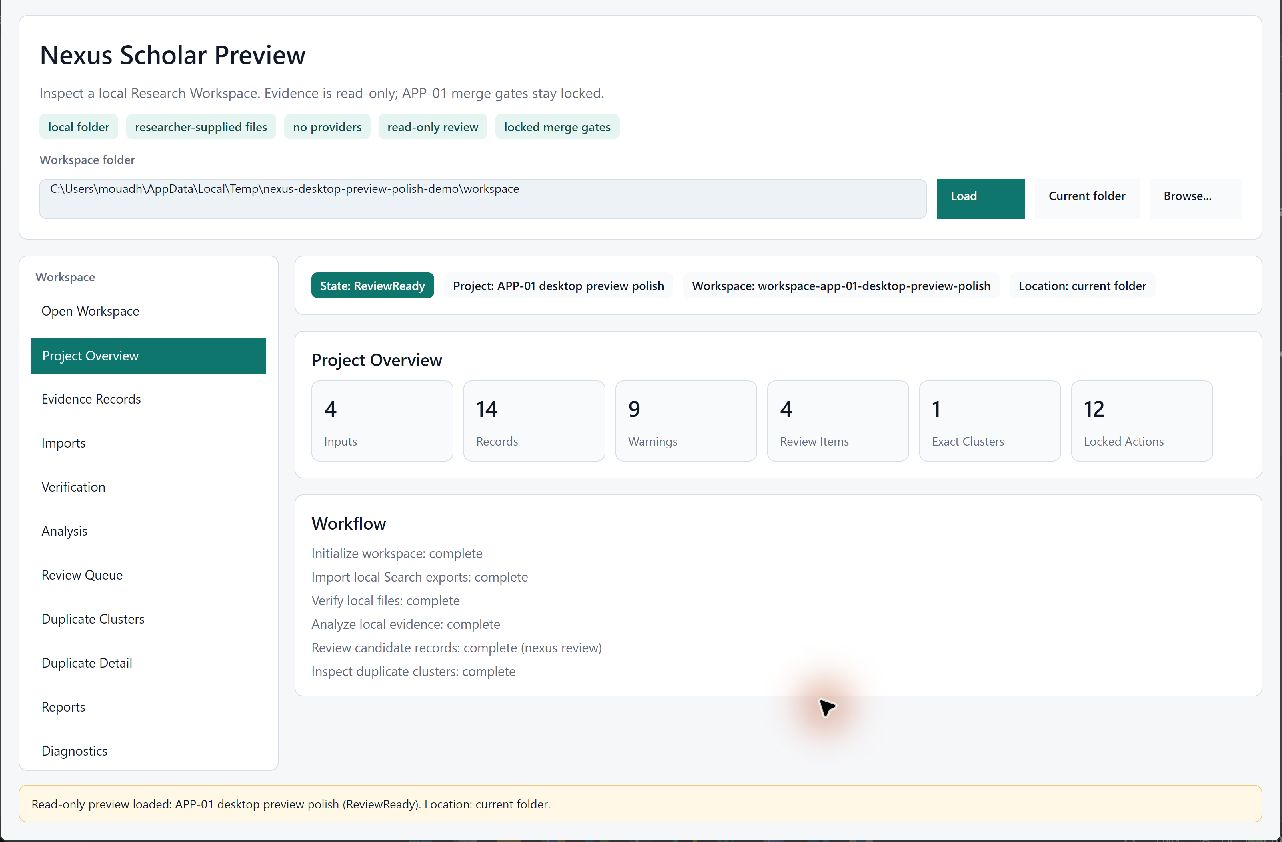
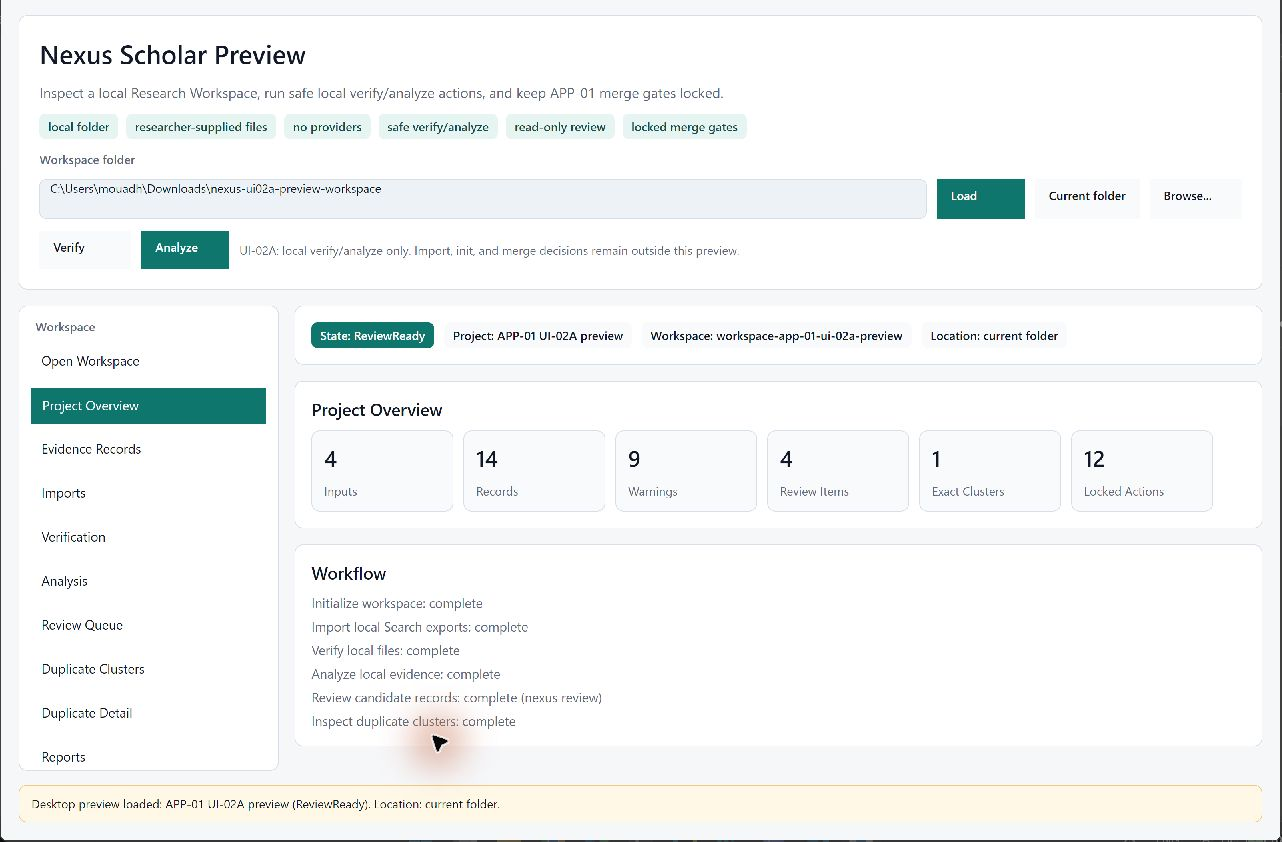
docs(site): refresh desktop preview for UI-02A

diff --git a/tutorials/getting-started/index.html b/tutorials/getting-started/index.html
@@ -144,18 +144,18 @@ APP-01 action
 
         <section class="content-section" id="desktop-preview">
           <h2>6. Inspect the desktop preview</h2>
-          <p>After the local Research Workspace workflow has produced <code>.nexus-demo/workspace</code>, you can inspect the same generated local outputs in the read-only desktop preview.</p>
+          <p>After the local Research Workspace workflow has produced <code>.nexus-demo/workspace</code>, you can inspect the same generated local outputs in the desktop preview and run the safe local UI-02A actions.</p>
           <pre><code>dotnet run --project samples/NexusScholar.Desktop.Preview -- ".nexus-demo/workspace"</code></pre>
-          <p class="section-note">The desktop preview is a local read-only inspector. It does not run <code>init</code>, <code>import</code>, <code>verify</code>, <code>analyze</code>, accept/reject merge decisions, mark records unresolved, mutate Core records, call providers, or create a product desktop shell.</p>
+          <p class="section-note">The desktop preview can run local <code>Verify</code> and <code>Analyze</code> actions through shared ResearchWorkspace services. It does not run <code>init</code>, run <code>import</code>, accept/reject merge decisions, mark records unresolved, mutate Core records beyond existing generated-output writes, call providers, or create a product desktop shell.</p>
 
           <figure class="screenshot-frame">
             <img src="../../assets/img/desktop-preview-overview.png" alt="Nexus Scholar desktop preview overview showing review-ready workspace state and local output summaries." loading="lazy">
-            <figcaption>Overview screen with local project state, output presence, review summary, and next action guidance derived from generated workspace files.</figcaption>
+            <figcaption>Overview screen with local project state, generated output summaries, and the UI-02A <code>Verify</code> / <code>Analyze</code> buttons visible.</figcaption>
           </figure>
 
           <figure class="screenshot-frame">
-            <img src="../../assets/img/desktop-preview-evidence-records.png" alt="Nexus Scholar desktop preview evidence records tab showing local records and warning state." loading="lazy">
-            <figcaption>Evidence records tab. It helps testers inspect imported local records, warning state, and duplicate status without treating UI state as scientific authority.</figcaption>
+            <img src="../../assets/img/desktop-preview-verification-actions.png" alt="Nexus Scholar desktop preview verification tab showing local verification metrics and UI-02A action buttons." loading="lazy">
+            <figcaption>Verification tab after local workspace verification. The action surface stays limited to local verify/analyze; import and merge decisions remain outside the preview.</figcaption>
           </figure>
 
           <figure class="screenshot-frame">
@@ -176,7 +176,7 @@ APP-01 action
             <li>The Core contracts can be exercised without network access.</li>
             <li>The CLI can show environment policy, a small protocol/workflow/bundle path, deterministic import/dedup evidence, and a read-only local Research Workspace review queue.</li>
             <li>The sample host can render contract-shaped workspace blocks without giving the renderer Core authority.</li>
-            <li>The desktop preview can inspect generated local Research Workspace outputs through UI-friendly read models without executing workflow actions.</li>
+            <li>The desktop preview can inspect generated local Research Workspace outputs and run safe local verify/analyze actions without executing merge decisions.</li>
             <li>The project is ready for architecture, onboarding, methodology, and workflow-boundary feedback.</li>
           </ul>
         </section>
@@ -188,6 +188,7 @@ APP-01 action
             <li>It does not prove live provider access, provider SDK support, Scopus or Web of Science API support, or Google Scholar scraping.</li>
             <li>It does not prove HTTP download, paywall bypass, shadow-library behavior, PDF extraction, or OCR.</li>
             <li>It does not prove persistence, API, cloud sync, collaboration, or a product desktop shell.</li>
+            <li>It does not make the desktop preview an init/import wizard.</li>
             <li>It does not execute merge accept, reject, or mark-unresolved decisions from APP-01 blocks.</li>
             <li>It does not make the desktop preview a source of scientific authority.</li>
             <li>It does not prove PHP compatibility. That requires generated fixtures and semantic comparators.</li>

diff --git a/tutorials/index.html b/tutorials/index.html
@@ -27,7 +27,7 @@
     <div class="post-list">
       <article class="post-row">
         <h2><a href="getting-started/">Getting started with the Core workspace, local CLI workflow, and desktop preview</a></h2>
-        <p>Clone the repository, run validation, import generated local Search-export fixtures, analyze APP-01 evidence, inspect the read-only review queue and clusters, view the read-only desktop preview, then file first-tester feedback.</p>
+        <p>Clone the repository, run validation, import generated local Search-export fixtures, analyze APP-01 evidence, inspect the read-only review queue and clusters, view the desktop preview with safe local verify/analyze actions, then file first-tester feedback.</p>
       </article>
     </div>
   </main>